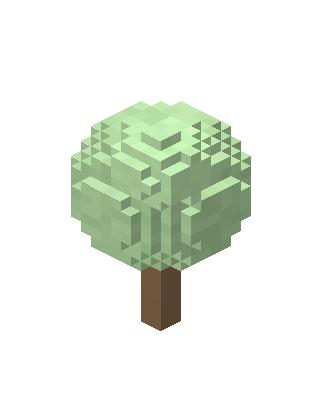
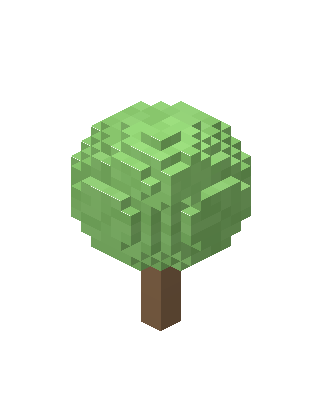
Couleurs densifiées : palette diorama saturée (herbe/eau/sable), canopées plus riches, lumière recalibrée (l'ambiant surexposait)
Claude-Session: https://claude.ai/code/session_018G1fC5KTu7fwbDMoex1F8Q

Changed region(s): [[0.2174, 0.2382, 0.7764, 0.6849]]

diff --git a/frontend/src/voxel/smoothTerrain.ts b/frontend/src/voxel/smoothTerrain.ts
@@ -26,15 +26,17 @@ const MICRO = 0.06; // micro-relief (± unités) — produit des marches isolée
 const TERRACE_BAND = 0.26; // largeur de la transition de terrasse
 
 // Palette diorama par biome (désaturée façon maquette), deux nuances par biome.
+// Palette densifiée (retour utilisateur : « moins pâle ») — pastels francs,
+// pas délavés : verts qui existent, eau vraiment bleue, sable doré.
 const DIORAMA: Record<number, [number, number, number][]> = {
-  0: [[150, 202, 222], [138, 192, 214]], // eau laiteuse
-  1: [[228, 213, 176], [220, 203, 164]], // sable crème
-  2: [[186, 216, 170], [174, 208, 156]], // herbe menthe
-  3: [[162, 198, 142], [152, 190, 132]], // forêt (sol clair — les arbres font le vert)
-  4: [[204, 197, 186], [192, 185, 174]], // roche claire
-  5: [[240, 242, 247], [230, 234, 241]], // neige
+  0: [[110, 182, 214], [96, 170, 205]], // eau lagon
+  1: [[222, 199, 146], [213, 187, 130]], // sable doré
+  2: [[150, 200, 118], [136, 190, 104]], // herbe verte franche
+  3: [[124, 176, 92], [112, 166, 84]], // sol forêt (les arbres font la canopée)
+  4: [[190, 178, 160], [176, 164, 146]], // roche chaude
+  5: [[234, 238, 246], [222, 228, 238]], // neige
 };
-const CLIFF: [number, number, number] = [227, 219, 198]; // pierre crème des marches
+const CLIFF: [number, number, number] = [214, 199, 168]; // pierre des marches, plus chaude
 const UNDISCOVERED: [number, number, number] = [225, 227, 244]; // sous la brume
 
 // ombrage voxel par face (mêmes valeurs douces que le mesher des blocs)

diff --git a/frontend/src/voxel/engine.ts b/frontend/src/voxel/engine.ts
@@ -85,10 +85,11 @@ export class VoxelEngine {
     if (this.sun) return;
     // ciel quasi neutre + rebond lavande : le soleil apporte seulement une
     // pointe de chaleur — un couple trop chaud tirait les verts vers l'olive
-    const hemi = new THREE.HemisphereLight(0xf7f5ff, 0xcfc2e8, 1.4);
+    // légèrement moins d'ambiant : la surexposition délavait les couleurs
+    const hemi = new THREE.HemisphereLight(0xf7f5ff, 0xcfc2e8, 1.2);
     this.scene.add(hemi);
     this.hemi = hemi;
-    const sun = new THREE.DirectionalLight(0xfff2e0, 1.75);
+    const sun = new THREE.DirectionalLight(0xfff2e0, 1.7);
     sun.castShadow = true;
     sun.shadow.mapSize.set(1024, 1024);
     sun.shadow.camera.left = -shadowSpan;
@@ -170,7 +171,7 @@ export class VoxelEngine {
       ],
       this.dayTime,
     );
-    this.sun.intensity = ramp([[0, 1.25], [0.25, 1.75], [0.7, 1.75], [1, 0.95]], this.dayTime);
+    this.sun.intensity = ramp([[0, 1.2], [0.25, 1.7], [0.7, 1.7], [1, 0.92]], this.dayTime);
     this.hemi.color = lerpColor(
       [
         [[0, 1.0], [0.25, 0.97], [0.7, 0.97], [1, 0.6]],
@@ -179,7 +180,7 @@ export class VoxelEngine {
       ],
       this.dayTime,
     ); // ciel : pêche d'aube → neutre → indigo crépusculaire
-    this.hemi.intensity = ramp([[0, 1.25], [0.5, 1.4], [1, 1.05]], this.dayTime);
+    this.hemi.intensity = ramp([[0, 1.1], [0.5, 1.2], [1, 0.92]], this.dayTime);
     this.invalidate();
   }
 

diff --git a/journal.md b/journal.md
@@ -6,6 +6,20 @@
 
 ---
 
+## 2026-07-17 (17) — Couleurs densifiées (retour « moins pâle »)
+
+### Fait
+- **Palette diorama saturée** (`smoothTerrain.DIORAMA`) : herbe verte franche (150,200,118),
+  eau lagon (110,182,214), sable doré, sol forêt profond, falaises plus chaudes (214,199,168).
+- **Canopées d'arbres densifiées** (gen-props : vert feuillu 134,192,108 / profond 104,168,88 /
+  rose cerisier 232,164,188 — props régénérés).
+- **Lumière calibrée en conséquence** : hemi 1.4→1.2, sun 1.75→1.7 (+ rampes du cycle solaire
+  alignées) — la surexposition délavait les teintes.
+
+### Fonctionnel (vérifié, captures midi/crépuscule banc + vraie partie)
+- Verts qui existent, eau vraiment bleue, cerisiers qui ressortent ; crépuscule mauve sur
+  palette dense très lisible. Move serveur + rotation OK, `tsc` + build verts.
+
 ## 2026-07-17 (16) — CYCLE SOLAIRE sur le timer de vague + shader d'eau
 
 ### Fait
